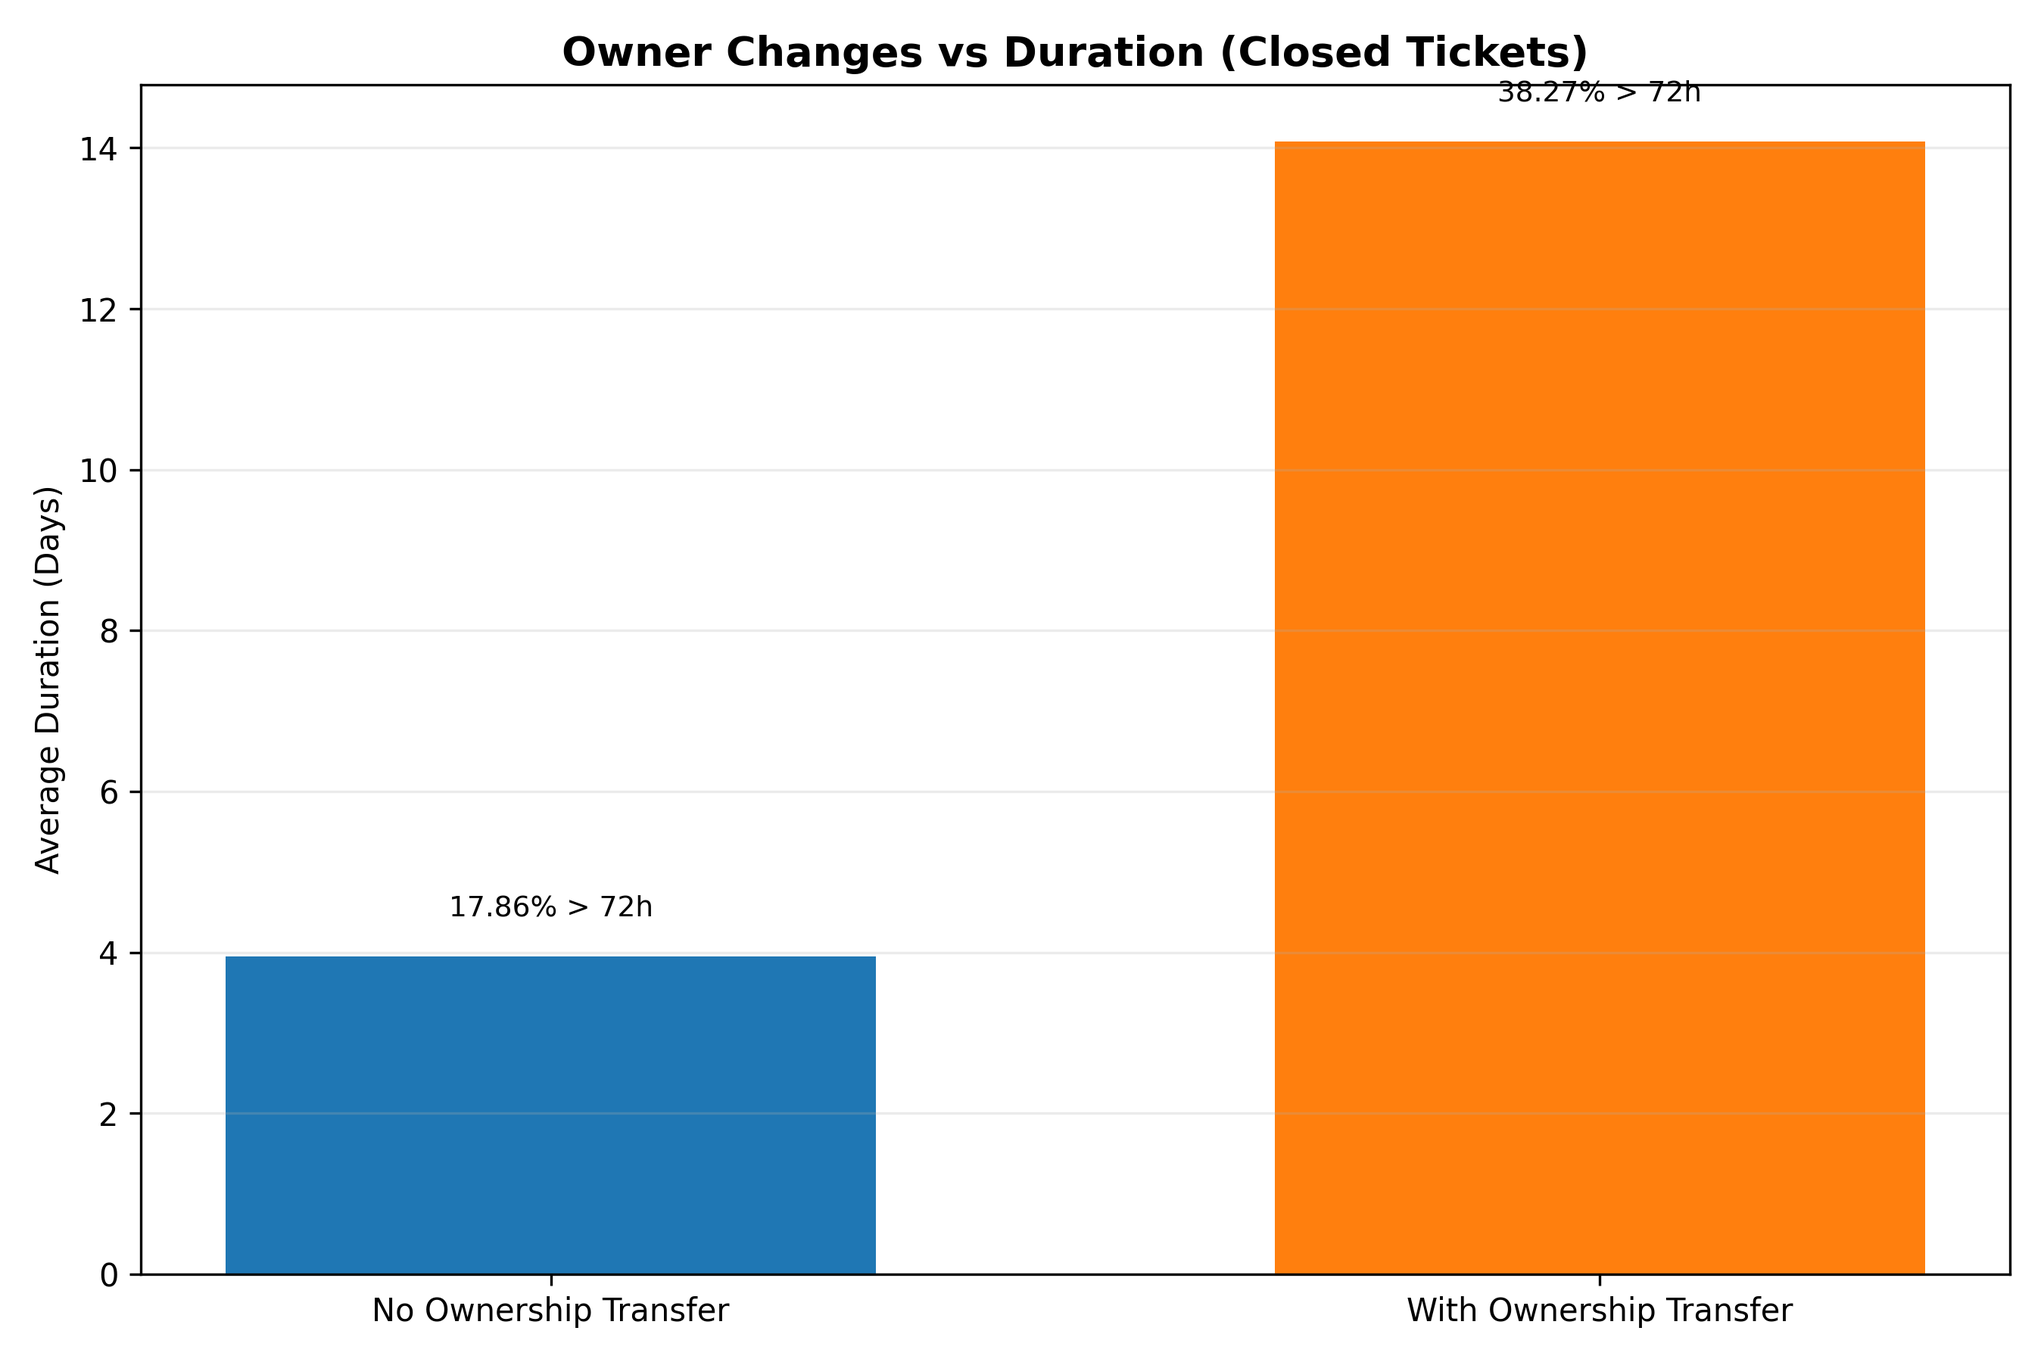
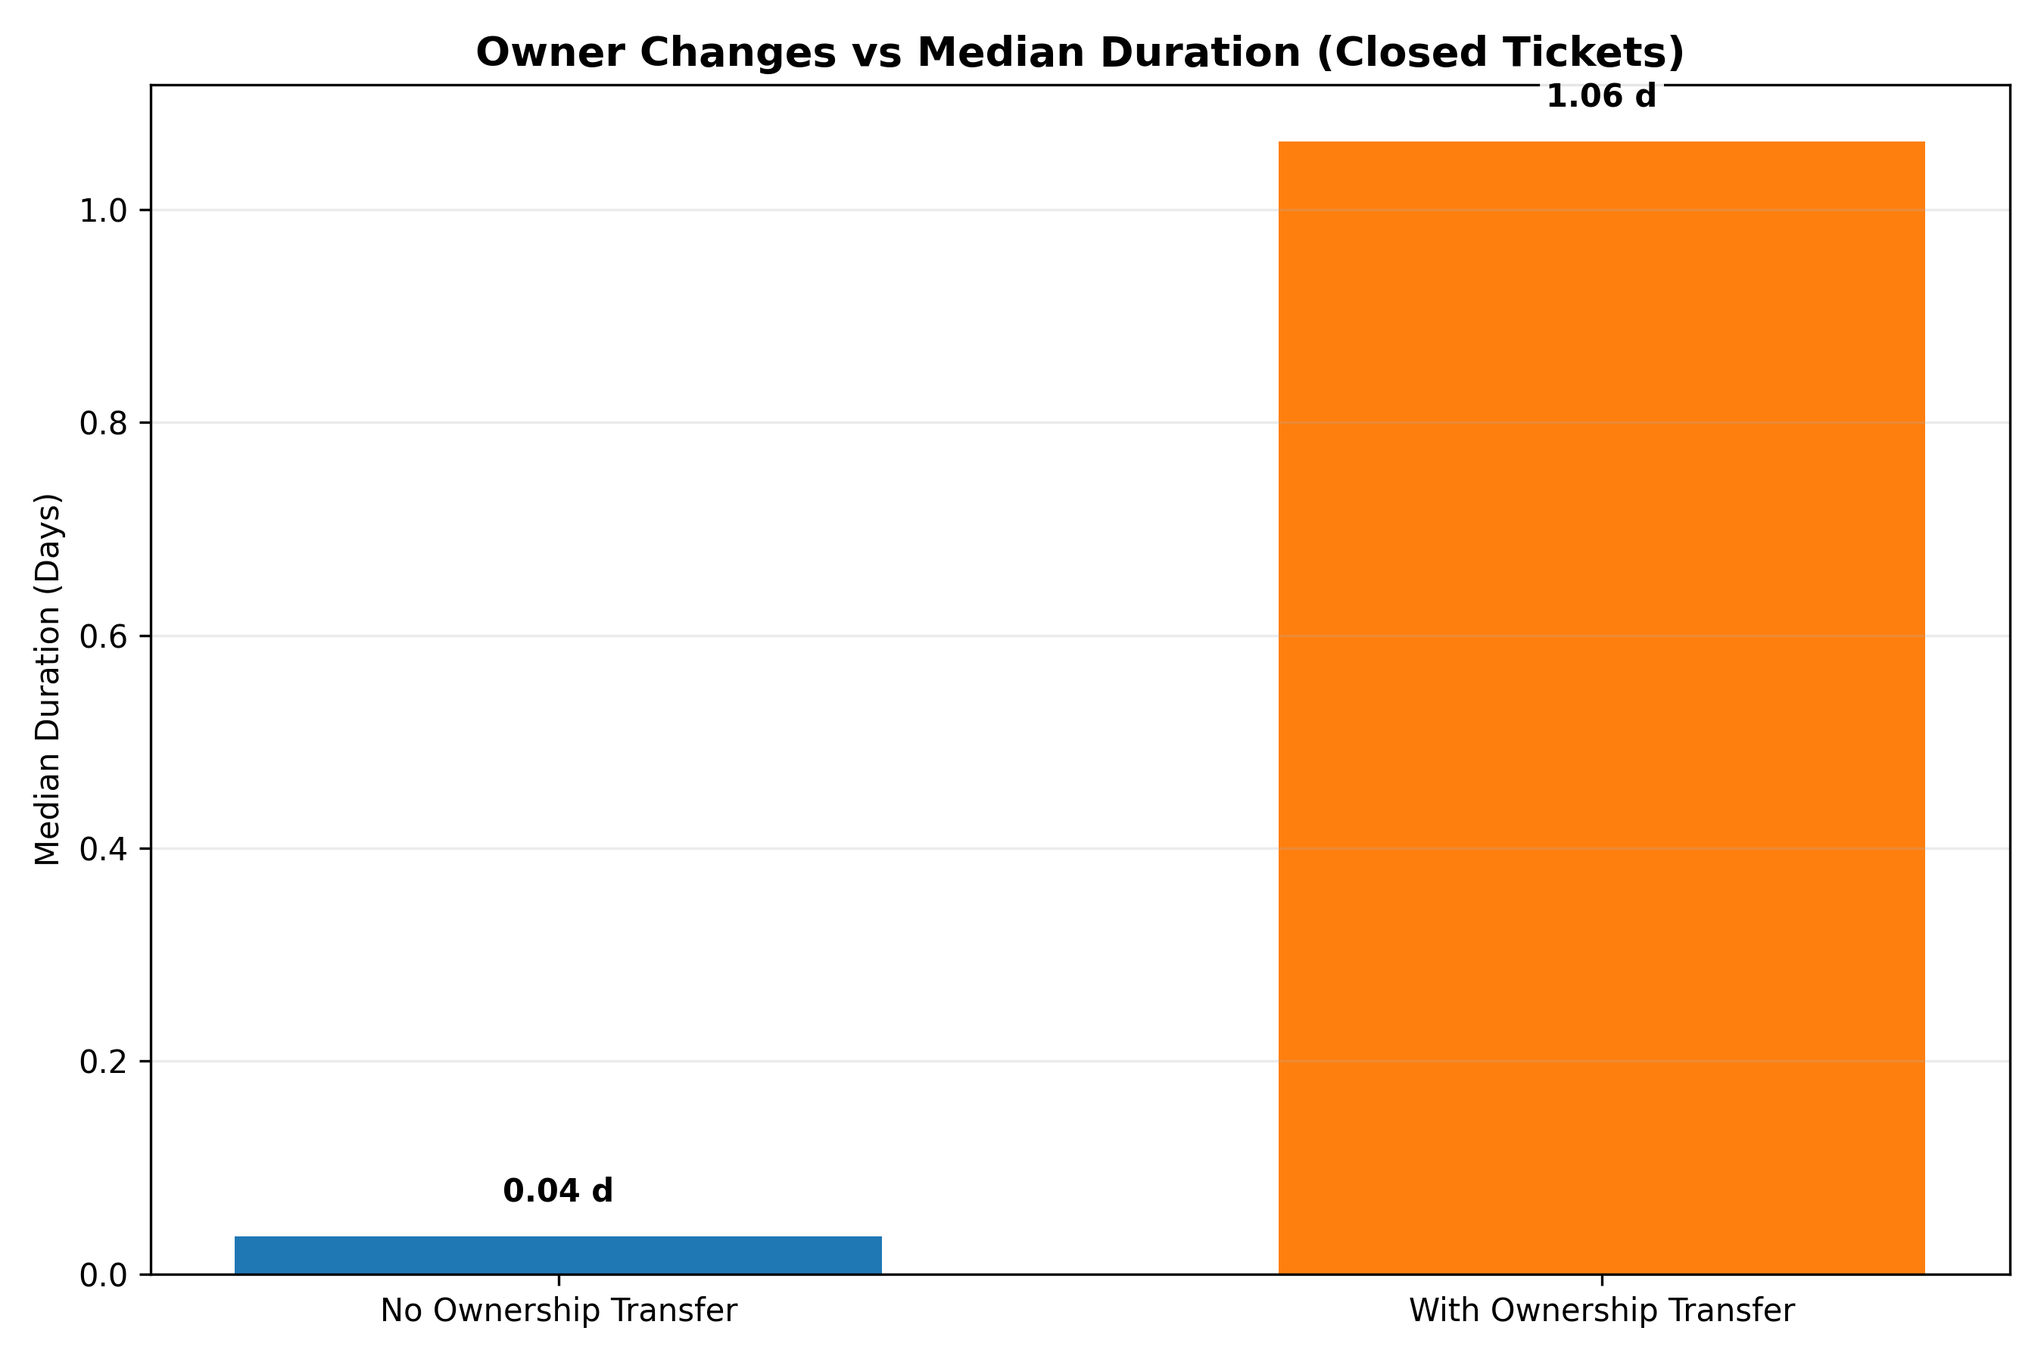
Update analysis files for ownership transfers

diff --git a/analysis/ownership_transfers/analyze_ownership_transfers.py b/analysis/ownership_transfers/analyze_ownership_transfers.py
@@ -188,6 +188,43 @@ def run_analysis() -> None:
         conn,
     )
 
+    duration_median_binary = pd.read_sql_query(
+        """
+        WITH labeled AS (
+            SELECT
+                CASE
+                    WHEN COALESCE(ot.owner_transfer_events, 0) > 0
+                    THEN 1
+                    ELSE 0
+                END AS has_owner_transfer,
+                cs.duration_hours
+            FROM closed_scope cs
+            LEFT JOIN owner_transfer_counts ot ON cs.sr_id = ot.sr_id
+            WHERE cs.duration_hours IS NOT NULL
+              AND cs.duration_hours >= 0
+        ),
+        ordered AS (
+            SELECT
+                has_owner_transfer,
+                duration_hours,
+                ROW_NUMBER() OVER (
+                    PARTITION BY has_owner_transfer
+                    ORDER BY duration_hours
+                ) AS rn,
+                COUNT(*) OVER (PARTITION BY has_owner_transfer) AS cnt
+            FROM labeled
+        )
+        SELECT
+            has_owner_transfer,
+            AVG(duration_hours) AS median_duration_hours
+        FROM ordered
+        WHERE rn IN ((cnt + 1) / 2, (cnt + 2) / 2)
+        GROUP BY has_owner_transfer
+        ORDER BY has_owner_transfer;
+        """,
+        conn,
+    )
+
     duration_bucket_summary = pd.read_sql_query(
         """
         SELECT
@@ -210,6 +247,54 @@ def run_analysis() -> None:
         LEFT JOIN owner_transfer_counts ot ON cs.sr_id = ot.sr_id
         WHERE cs.duration_hours IS NOT NULL
           AND cs.duration_hours >= 0
+        GROUP BY transfer_bucket
+        ORDER BY
+            CASE transfer_bucket
+                WHEN '0' THEN 0
+                WHEN '1' THEN 1
+                WHEN '2' THEN 2
+                WHEN '3' THEN 3
+                WHEN '4' THEN 4
+                ELSE 5
+            END;
+        """,
+        conn,
+    )
+
+    duration_bucket_medians = pd.read_sql_query(
+        """
+        WITH labeled AS (
+            SELECT
+                CASE
+                    WHEN COALESCE(ot.owner_transfer_events, 0) = 0 THEN '0'
+                    WHEN COALESCE(ot.owner_transfer_events, 0) = 1 THEN '1'
+                    WHEN COALESCE(ot.owner_transfer_events, 0) = 2 THEN '2'
+                    WHEN COALESCE(ot.owner_transfer_events, 0) = 3 THEN '3'
+                    WHEN COALESCE(ot.owner_transfer_events, 0) = 4 THEN '4'
+                    ELSE '5+'
+                END AS transfer_bucket,
+                cs.duration_hours
+            FROM closed_scope cs
+            LEFT JOIN owner_transfer_counts ot ON cs.sr_id = ot.sr_id
+            WHERE cs.duration_hours IS NOT NULL
+              AND cs.duration_hours >= 0
+        ),
+        ordered AS (
+            SELECT
+                transfer_bucket,
+                duration_hours,
+                ROW_NUMBER() OVER (
+                    PARTITION BY transfer_bucket
+                    ORDER BY duration_hours
+                ) AS rn,
+                COUNT(*) OVER (PARTITION BY transfer_bucket) AS cnt
+            FROM labeled
+        )
+        SELECT
+            transfer_bucket,
+            AVG(duration_hours) AS median_duration_hours
+        FROM ordered
+        WHERE rn IN ((cnt + 1) / 2, (cnt + 2) / 2)
         GROUP BY transfer_bucket
         ORDER BY
             CASE transfer_bucket
@@ -318,11 +403,15 @@ def run_analysis() -> None:
     duration_summary["tickets_over_72h_pct"] = (duration_summary["tickets_over_72h"] / duration_summary["tickets"]) * 100.0
     duration_summary["tickets_over_168h_pct"] = (duration_summary["tickets_over_168h"] / duration_summary["tickets"]) * 100.0
     duration_summary["avg_duration_days_capped_168"] = duration_summary["avg_duration_hours_capped_168"] / 24.0
+    duration_summary = duration_summary.merge(duration_median_binary, on="has_owner_transfer", how="left")
+    duration_summary["median_duration_days"] = duration_summary["median_duration_hours"] / 24.0
 
     duration_summary_out = duration_summary[
         [
             "group",
             "tickets",
+            "median_duration_hours",
+            "median_duration_days",
             "avg_duration_hours",
             "avg_duration_days",
             "avg_duration_hours_capped_168",
@@ -351,6 +440,10 @@ def run_analysis() -> None:
         duration_bucket_summary["tickets_over_168h"] / duration_bucket_summary["tickets"]
     ) * 100.0
     duration_bucket_summary["avg_duration_days_capped_168"] = duration_bucket_summary["avg_duration_hours_capped_168"] / 24.0
+    duration_bucket_summary = duration_bucket_summary.merge(
+        duration_bucket_medians, on="transfer_bucket", how="left"
+    )
+    duration_bucket_summary["median_duration_days"] = duration_bucket_summary["median_duration_hours"] / 24.0
     duration_bucket_summary.to_csv(OUTPUT_DURATION_BUCKETS_CSV, index=False)
 
     # Effect size + significance for binary split.
@@ -457,46 +550,50 @@ def run_analysis() -> None:
         else np.nan
     )
 
-    # Chart 3: average duration days, transfer vs no transfer.
+    # Chart 3: median duration days, transfer vs no transfer.
     plt.figure(figsize=(9, 6))
     dx = np.arange(len(duration_summary_out))
-    dy = duration_summary_out["avg_duration_days"].to_numpy()
+    dy = duration_summary_out["median_duration_days"].to_numpy()
     plt.bar(dx, dy, color=["#1f77b4", "#ff7f0e"], width=0.62)
     plt.xticks(dx, duration_summary_out["group"], rotation=0)
-    plt.ylabel("Average Duration (Days)")
-    plt.title("Owner Changes vs Duration (Closed Tickets)", fontsize=13, fontweight="bold")
+    plt.ylabel("Median Duration (Days)")
+    plt.title("Owner Changes vs Median Duration (Closed Tickets)", fontsize=13, fontweight="bold")
     plt.grid(axis="y", alpha=0.25)
-    for i, row in enumerate(duration_summary_out.itertuples(index=False)):
+    for i, v in enumerate(dy):
         plt.text(
             i,
-            dy[i] + max(dy) * 0.03 if len(dy) else 0.0,
-            f"{row.tickets_over_72h_pct:.2f}% > 72h",
+            v + max(dy) * 0.025 if len(dy) else 0.0,
+            f"{v:.2f} d",
             ha="center",
             va="bottom",
-            fontsize=9,
+            fontsize=10,
+            fontweight="bold",
+            bbox=dict(boxstyle="round,pad=0.2", facecolor="white", edgecolor="none", alpha=0.9),
         )
     plt.tight_layout()
     plt.savefig(OUTPUT_DURATION_BINARY_PNG, dpi=300)
     plt.close()
 
-    # Chart 4: average duration days by transfer count bucket.
+    # Chart 4: median duration days by transfer count bucket.
     plt.figure(figsize=(10, 6))
     dbx = np.arange(len(duration_bucket_summary))
-    dby = duration_bucket_summary["avg_duration_days"].to_numpy()
+    dby = duration_bucket_summary["median_duration_days"].to_numpy()
     plt.bar(dbx, dby, color="#2f6ea3", width=0.7)
     plt.xticks(dbx, duration_bucket_summary["transfer_bucket"])
-    plt.ylabel("Average Duration (Days)")
+    plt.ylabel("Median Duration (Days)")
     plt.xlabel("Ownership Transfer Count Bucket")
-    plt.title("Average Duration by Ownership Transfer Count", fontsize=13, fontweight="bold")
+    plt.title("Median Duration by Ownership Transfer Count", fontsize=13, fontweight="bold")
     plt.grid(axis="y", alpha=0.25)
     for i, v in enumerate(dby):
         plt.text(
             i,
-            v + max(dby) * 0.015 if len(dby) else 0.0,
+            v * 0.5 if v > 0 else 0.0,
             f"{v:.2f}",
             ha="center",
-            va="bottom",
-            fontsize=9,
+            va="center",
+            fontsize=14,
+            fontweight="bold",
+            color="white",
         )
     plt.tight_layout()
     plt.savefig(OUTPUT_DURATION_BUCKET_PNG, dpi=300)

diff --git a/analysis/ownership_transfers_2024_2025/analyze_ownership_transfers_2024_2025.py b/analysis/ownership_transfers_2024_2025/analyze_ownership_transfers_2024_2025.py
@@ -1,0 +1,149 @@
+import os
+import sqlite3
+from pathlib import Path
+
+# Keep matplotlib cache writable in sandboxed runs.
+os.environ.setdefault("MPLCONFIGDIR", "/tmp/matplotlib")
+
+import matplotlib
+
+matplotlib.use("Agg")
+import matplotlib.pyplot as plt
+import pandas as pd
+
+
+BASE_DIR = Path("/Users/milo/Desktop/BNP_BDD")
+DB_PATH = BASE_DIR / "hobart.db"
+OUTPUT_DIR = BASE_DIR / "analysis" / "ownership_transfers_2024_2025"
+OUTPUT_CSV = OUTPUT_DIR / "ownership_transfers_2024_2025.csv"
+OUTPUT_MD = OUTPUT_DIR / "ownership_transfers_2024_2025_report.md"
+OUTPUT_PNG = OUTPUT_DIR / "ownership_transfers_2024_2025_bar.png"
+
+TARGET_YEARS = (2024, 2025)
+
+
+def fetch_ownership_transfer_stats(conn: sqlite3.Connection) -> pd.DataFrame:
+    query = """
+    WITH sr_scoped AS (
+        SELECT
+            id AS sr_id,
+            CAST('20' || substr(creationdate_parsed, 1, 2) AS INTEGER) AS creation_year
+        FROM sr
+        WHERE creationdate_parsed IS NOT NULL
+          AND closingdate_parsed IS NOT NULL
+          AND CAST('20' || substr(creationdate_parsed, 1, 2) AS INTEGER) IN (?, ?)
+    ),
+    year_ticket_totals AS (
+        SELECT
+            creation_year,
+            COUNT(*) AS closed_tickets
+        FROM sr_scoped
+        GROUP BY creation_year
+    ),
+    year_transfer_totals AS (
+        SELECT
+            s.creation_year,
+            COUNT(*) AS total_owner_transfers
+        FROM historysr h
+        JOIN sr_scoped s ON h.sr_id = s.sr_id
+        WHERE h.action = 'Re-assign'
+        GROUP BY s.creation_year
+    )
+    SELECT
+        y.creation_year,
+        y.closed_tickets,
+        COALESCE(t.total_owner_transfers, 0) AS total_owner_transfers,
+        1.0 * COALESCE(t.total_owner_transfers, 0) / y.closed_tickets AS avg_owner_transfers_per_ticket
+    FROM year_ticket_totals y
+    LEFT JOIN year_transfer_totals t ON y.creation_year = t.creation_year
+    ORDER BY y.creation_year;
+    """
+    return pd.read_sql_query(query, conn, params=(TARGET_YEARS[0], TARGET_YEARS[1]))
+
+
+def build_chart(df: pd.DataFrame) -> None:
+    plt.figure(figsize=(8, 5))
+    bars = plt.bar(
+        df["creation_year"].astype(str),
+        df["avg_owner_transfers_per_ticket"],
+        color=["#2f6ea3", "#f28e2b"],
+        width=0.6,
+    )
+    plt.title("Average ownership transfers per ticket - 2024 vs 2025", fontsize=13, fontweight="bold")
+    plt.xlabel("Ticket creation year")
+    plt.ylabel("Average ownership transfers per ticket")
+    plt.grid(axis="y", alpha=0.25)
+
+    for bar, row in zip(bars, df.itertuples(index=False)):
+        plt.text(
+            bar.get_x() + bar.get_width() / 2,
+            bar.get_height() + 0.01,
+            f"{row.avg_owner_transfers_per_ticket:.4f}\n({int(row.total_owner_transfers):,}/{int(row.closed_tickets):,})",
+            ha="center",
+            va="bottom",
+            fontsize=9,
+        )
+
+    plt.tight_layout()
+    plt.savefig(OUTPUT_PNG, dpi=300)
+    plt.close()
+
+
+def write_report(df: pd.DataFrame) -> None:
+    row_2024 = df[df["creation_year"] == 2024].iloc[0]
+    row_2025 = df[df["creation_year"] == 2025].iloc[0]
+
+    abs_diff = row_2025["avg_owner_transfers_per_ticket"] - row_2024["avg_owner_transfers_per_ticket"]
+    rel_change_pct = (
+        abs_diff / row_2024["avg_owner_transfers_per_ticket"] * 100.0
+        if row_2024["avg_owner_transfers_per_ticket"]
+        else float("nan")
+    )
+
+    df_display = pd.DataFrame(
+        {
+            "creation_year": df["creation_year"].astype(int).astype(str),
+            "closed_tickets": df["closed_tickets"].astype(int).map(lambda x: f"{x:,}"),
+            "total_owner_transfers": df["total_owner_transfers"].astype(int).map(lambda x: f"{x:,}"),
+            "avg_owner_transfers_per_ticket": df["avg_owner_transfers_per_ticket"].map(lambda x: f"{x:.4f}"),
+        }
+    )
+
+    with open(OUTPUT_MD, "w", encoding="utf-8") as f:
+        f.write("# Ownership Transfers per Ticket - 2024 vs 2025\n\n")
+        f.write("## Objective\n")
+        f.write("Compare the average number of ownership transfers per ticket between 2024 and 2025.\n\n")
+
+        f.write("## KPI Definition\n")
+        f.write("- Population: closed tickets (`closingdate_parsed` is not null).\n")
+        f.write("- Ownership transfer event: `historysr.action = 'Re-assign'`.\n")
+        f.write("- Average ownership transfers per ticket = `total_owner_transfers / closed_tickets`.\n\n")
+
+        f.write("## Results\n\n")
+        f.write(df_display.to_markdown(index=False))
+        f.write("\n\n")
+
+        f.write("## Comparison 2025 vs 2024\n")
+        f.write(f"- Absolute difference (avg transfers per ticket): **{abs_diff:+.4f}**\n")
+        f.write(f"- Relative change: **{rel_change_pct:+.2f}%**\n")
+
+
+def run() -> None:
+    OUTPUT_DIR.mkdir(parents=True, exist_ok=True)
+
+    conn = sqlite3.connect(DB_PATH)
+    df = fetch_ownership_transfer_stats(conn)
+    conn.close()
+
+    if df.empty or len(df) != 2:
+        raise RuntimeError("Could not compute both 2024 and 2025 rows.")
+
+    df["avg_owner_transfers_per_ticket"] = df["avg_owner_transfers_per_ticket"].astype(float)
+
+    df.to_csv(OUTPUT_CSV, index=False)
+    build_chart(df)
+    write_report(df)
+
+
+if __name__ == "__main__":
+    run()

diff --git a/analysis/ownership_transfers/ownership_transfer_global_report.md b/analysis/ownership_transfers/ownership_transfer_global_report.md
@@ -39,10 +39,10 @@
 | 5+                |     67714 |                 60 |   0.00088608  |         0.088608  |          0.000688509 |           0.00114028  |                0.0688509 |                 0.114028  |
 
 ## Part B: Owner Changes vs Duration
-| group                   |   tickets |   avg_duration_hours |   avg_duration_days |   avg_duration_hours_capped_168 |   avg_duration_days_capped_168 |   tickets_over_24h |   tickets_over_24h_pct |   tickets_over_72h |   tickets_over_72h_pct |   tickets_over_168h |   tickets_over_168h_pct |
-|:------------------------|----------:|---------------------:|--------------------:|--------------------------------:|-------------------------------:|-------------------:|-----------------------:|-------------------:|-----------------------:|--------------------:|------------------------:|
-| No Ownership Transfer   |   2910216 |              94.8522 |             3.95217 |                         31.4122 |                        1.30884 |             843015 |                28.9674 |             519861 |                17.8633 |              287426 |                 9.87645 |
-| With Ownership Transfer |    935959 |             337.928  |            14.0803  |                         64.8967 |                        2.70403 |             484087 |                51.721  |             358155 |                38.2661 |              242927 |                25.9549  |
+| group                   |   tickets |   median_duration_hours |   median_duration_days |   avg_duration_hours |   avg_duration_days |   avg_duration_hours_capped_168 |   avg_duration_days_capped_168 |   tickets_over_24h |   tickets_over_24h_pct |   tickets_over_72h |   tickets_over_72h_pct |   tickets_over_168h |   tickets_over_168h_pct |
+|:------------------------|----------:|------------------------:|-----------------------:|---------------------:|--------------------:|--------------------------------:|-------------------------------:|-------------------:|-----------------------:|-------------------:|-----------------------:|--------------------:|------------------------:|
+| No Ownership Transfer   |   2910216 |                0.852778 |              0.0355324 |              94.8522 |             3.95217 |                         31.4122 |                        1.30884 |             843015 |                28.9674 |             519861 |                17.8633 |              287426 |                 9.87645 |
+| With Ownership Transfer |    935959 |               25.5342   |              1.06392   |             337.928  |            14.0803  |                         64.8967 |                        2.70403 |             484087 |                51.721  |             358155 |                38.2661 |              242927 |                25.9549  |
 
 - Average duration with transfer: **14.080 days** (337.93h)
 - Average duration without transfer: **3.952 days** (94.85h)

diff --git a/analysis/ownership_transfers_2024_2025/ownership_transfers_2024_2025_report.md b/analysis/ownership_transfers_2024_2025/ownership_transfers_2024_2025_report.md
@@ -1,0 +1,20 @@
+# Ownership Transfers per Ticket - 2024 vs 2025
+
+## Objective
+Compare the average number of ownership transfers per ticket between 2024 and 2025.
+
+## KPI Definition
+- Population: closed tickets (`closingdate_parsed` is not null).
+- Ownership transfer event: `historysr.action = 'Re-assign'`.
+- Average ownership transfers per ticket = `total_owner_transfers / closed_tickets`.
+
+## Results
+
+|   creation_year | closed_tickets   | total_owner_transfers   |   avg_owner_transfers_per_ticket |
+|----------------:|:-----------------|:------------------------|---------------------------------:|
+|            2024 | 2,188,415        | 1,061,626               |                           0.4851 |
+|            2025 | 2,540,246        | 1,152,793               |                           0.4538 |
+
+## Comparison 2025 vs 2024
+- Absolute difference (avg transfers per ticket): **-0.0313**
+- Relative change: **-6.45%**
